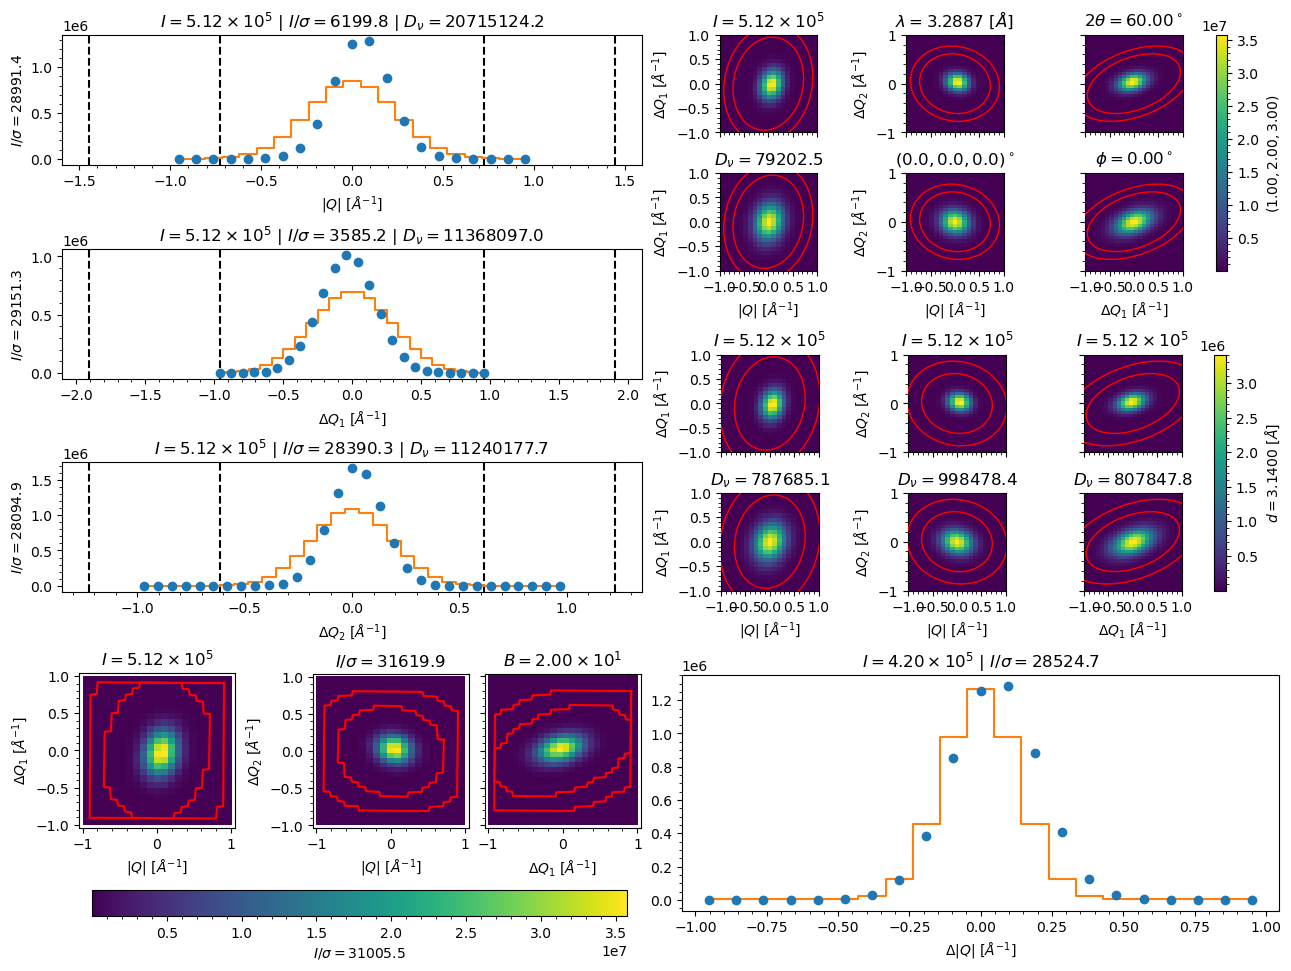
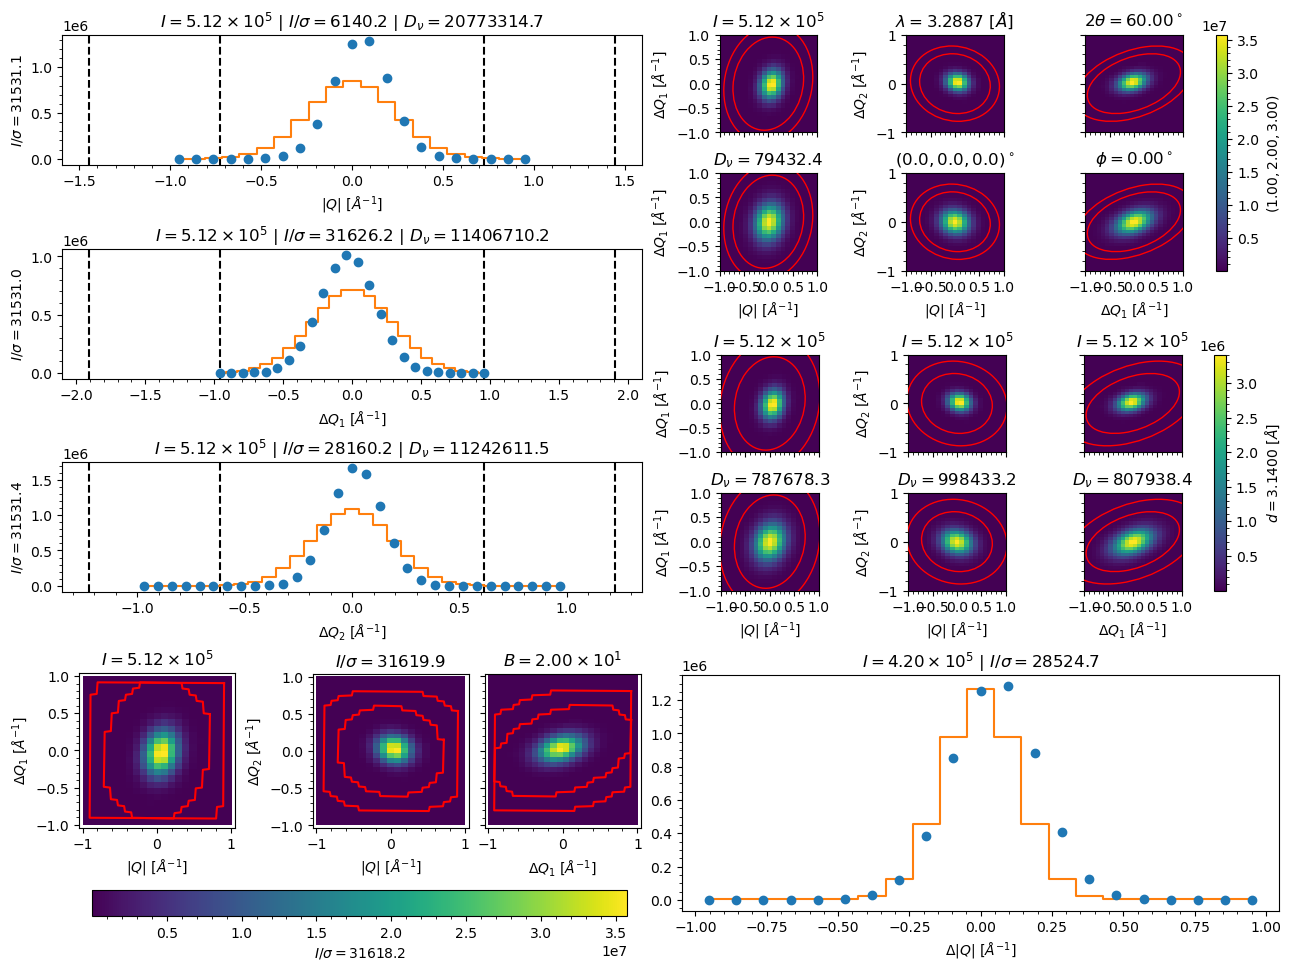
Prior updates

diff --git a/src/garnet/reduction/ellipsoid.py b/src/garnet/reduction/ellipsoid.py
@@ -429,7 +429,11 @@ class PeakEllipsoid:
         chi-squared scale factor applied at this stage). Since `S` is
         generally not diagonal in the lab frame, 1D/2D sub-block
         determinants (and hence this quantity) do depend on orientation,
-        unlike the full 3x3 determinant.
+        unlike the full 3x3 determinant. For ``mode="3d"``, `S` is
+        diagonal with entries ``r0^2, r1^2, r2^2`` in its own (rotated)
+        local frame, and the determinant is rotation-invariant, so
+        ``det(S) = (r0*r1*r2)**2`` is computed directly without building
+        `U` or the full matrix product.
 
         `r0, r1, r2` (and therefore `S`) are calibrated to the full-3D
         99.7% confidence contour (`_R_SCALE_3D`, chi-squared with
@@ -468,26 +472,27 @@ class PeakEllipsoid:
             a single diagonal entry of `S`).
         """
 
-        S = self.S_matrix(r0, r1, r2, u0, u1, u2)
-
         if mode == "3d":
-            S_mode = S
-        elif mode == "2d_0":
-            S_mode = S[1:, 1:]
-        elif mode == "2d_1":
-            S_mode = S[0::2, 0::2]
-        elif mode == "2d_2":
-            S_mode = S[:2, :2]
-        elif mode == "1d_0":
-            S_mode = S[0, 0]
-        elif mode == "1d_1":
-            S_mode = S[1, 1]
-        elif mode == "1d_2":
-            S_mode = S[2, 2]
+            det_S = (r0 * r1 * r2) ** 2
         else:
-            raise ValueError("Unknown mode {}".format(mode))
+            S = self.S_matrix(r0, r1, r2, u0, u1, u2)
 
-        det_S = np.linalg.det(S_mode) if np.ndim(S_mode) == 2 else S_mode
+            if mode == "2d_0":
+                S_mode = S[1:, 1:]
+            elif mode == "2d_1":
+                S_mode = S[0::2, 0::2]
+            elif mode == "2d_2":
+                S_mode = S[:2, :2]
+            elif mode == "1d_0":
+                S_mode = S[0, 0]
+            elif mode == "1d_1":
+                S_mode = S[1, 1]
+            elif mode == "1d_2":
+                S_mode = S[2, 2]
+            else:
+                raise ValueError("Unknown mode {}".format(mode))
+
+            det_S = np.linalg.det(S_mode) if np.ndim(S_mode) == 2 else S_mode
 
         d = _MODE_NDIM[mode]
         rescale = (_MODE_R_SCALE[mode] / _R_SCALE_3D) ** (2 * d)
@@ -710,6 +715,11 @@ class PeakEllipsoid:
         """
         Determinant of the ellipsoid covariance-like matrix S.
 
+        `S` is diagonal with entries ``r0^2, r1^2, r2^2`` in its own
+        (rotated) local frame, and the determinant is rotation-invariant,
+        so this is computed directly from the radii without building `U`
+        or the full matrix product.
+
         Parameters
         ----------
         r0 : float
@@ -719,19 +729,18 @@ class PeakEllipsoid:
         r2 : float
             Ellipsoid principal radius along the third rotated axis.
         u0 : float
-            First component of the orientation rotation vector.
+            Unused (`det(S)` does not depend on orientation).
         u1 : float
-            Second component of the orientation rotation vector.
+            Unused (`det(S)` does not depend on orientation).
         u2 : float
-            Third component of the orientation rotation vector.
+            Unused (`det(S)` does not depend on orientation).
 
         Returns
         -------
         det : float
             ``det(S)``, equal to ``(r0*r1*r2)**2``.
         """
-        S = self.S_matrix(r0, r1, r2, u0, u1, u2)
-        return np.linalg.det(S)
+        return (r0 * r1 * r2) ** 2
 
     def centroid_inverse_covariance(self, c0, c1, c2, r0, r1, r2, u0, u1, u2):
         """
@@ -2619,16 +2628,18 @@ class PeakEllipsoid:
 
     def residual(self, params, args_1d, args_2d, args_3d):
         """
-        Full stacked residual vector combining all modes, the prior, and the volume penalty.
+        Full stacked residual vector combining all modes and the prior.
 
         Computes the center and inverse covariance from `params`, then
         concatenates the 1D, 2D, and 3D Poisson-deviance residuals with
-        the prior residual (`prior_residual`) and the volume penalty
-        residual (`volume_penalty_residual`). Non-finite entries are
+        the prior residual (`prior_residual`). Non-finite entries are
         replaced with 0 or a large finite value so that
         `scipy.optimize.least_squares` sees a well-behaved cost vector.
         This is the residual function passed to `lmfit.Minimizer` in
         `sweep`.
+
+        Note: the volume penalty (`volume_penalty_residual`) is currently
+        disabled here — see the comment in the method body.
 
         Parameters
         ----------
@@ -2647,8 +2658,8 @@ class PeakEllipsoid:
         Returns
         -------
         cost : ndarray
-            Concatenated residual vector (1D + 2D + 3D + prior + volume
-            penalty terms), with NaN/inf sanitized.
+            Concatenated residual vector (1D + 2D + 3D + prior terms),
+            with NaN/inf sanitized.
         """
         c0 = params["c0"].value
         c1 = params["c1"].value
@@ -2670,16 +2681,12 @@ class PeakEllipsoid:
         cost_2d = self.residual_2d(params, *args_2d, c, inv_S)
         cost_3d = self.residual_3d(params, *args_3d, c, inv_S)
         cost_prior = self.prior_residual(params)
-        cost_vol = np.concatenate(
-            [
-                self.volume_penalty_residual(params, mode)
-                for mode in self._PENALTY_MODES
-            ]
-        )
+        # Volume penalty (volume_penalty_residual) is disabled: as written
+        # it rewards *larger* volumes, backwards from the intended
+        # anti-collapse regularizer. Paused pending a redesign that
+        # rewards smaller volumes with larger intensity above background.
 
-        cost = np.concatenate(
-            [cost_1d, cost_2d, cost_3d, cost_prior, cost_vol]
-        )
+        cost = np.concatenate([cost_1d, cost_2d, cost_3d, cost_prior])
         cost = np.nan_to_num(cost, nan=0.0, posinf=1e16, neginf=-1e16)
 
         return cost
@@ -2691,11 +2698,13 @@ class PeakEllipsoid:
         Computes the center, inverse covariance, and shape derivatives
         (`inv_S_deriv_r`, `inv_S_deriv_u`) from `params`, then
         column-stacks the 1D, 2D, and 3D Poisson-deviance Jacobians with
-        the prior Jacobian (`prior_jacobian`) and the volume penalty
-        Jacobian (`volume_penalty_jacobian`), and transposes to the
+        the prior Jacobian (`prior_jacobian`), and transposes to the
         ``(n_residuals, n_vary)`` convention expected by
         `scipy.optimize.least_squares`. This is the Jacobian function
         passed to `lmfit.Minimizer.minimize` in `sweep`.
+
+        Note: the volume penalty Jacobian (`volume_penalty_jacobian`) is
+        currently disabled here — see the comment in the method body.
 
         Parameters
         ----------
@@ -2740,14 +2749,10 @@ class PeakEllipsoid:
         jac_2d = self.jacobian_2d(params, *args_2d, c, inv_S, dr, du)
         jac_3d = self.jacobian_3d(params, *args_3d, c, inv_S, dr, du)
         jac_prior = self.prior_jacobian(params)
-        jac_vol = np.column_stack(
-            [
-                self.volume_penalty_jacobian(params, mode)
-                for mode in self._PENALTY_MODES
-            ]
-        )
+        # Volume penalty (volume_penalty_jacobian) is disabled: see the
+        # matching comment in residual().
 
-        jac = np.column_stack([jac_1d, jac_2d, jac_3d, jac_prior, jac_vol])
+        jac = np.column_stack([jac_1d, jac_2d, jac_3d, jac_prior])
         jac = np.nan_to_num(jac, nan=0.0, posinf=1e16, neginf=-1e16)
 
         return jac.T
@@ -3699,10 +3704,10 @@ class PeakEllipsoid:
 
         x = snr if snr > 1 else 1
 
-        sigma_c = self.smooth_saturating(x, 1.0, 100, 20)
-        sigma_log_s = self.smooth_saturating(x, 0.1, 10, 15)
-        sigma_log_d = self.smooth_saturating(x, 0.1, 10, 10)
-        sigma_rot = self.smooth_saturating(x, 0.1, 10, 10)
+        sigma_c = self.smooth_saturating(x, 5.0, 100, 20)
+        sigma_log_s = self.smooth_saturating(x, 1.0, 50, 15)
+        sigma_log_d = self.smooth_saturating(x, 0.05, 2.0, 10)
+        sigma_rot = self.smooth_saturating(x, 0.05, 2.0, 10)
 
         return sigma_c, sigma_log_s, sigma_log_d, sigma_rot
 
@@ -3864,15 +3869,17 @@ class PeakEllipsoid:
         report_fit=False,
     ):
         """
-        Run one `lmfit`/`scipy.optimize.least_squares` minimization pass, accepted only if SNR improves.
+        Run one `lmfit`/Levenberg-Marquardt minimization pass, accepted only if SNR improves.
 
         Optionally sets which parameters vary via `protocol`, then
-        minimizes `self.residual`/`self.jacobian` with
-        `lmfit.Minimizer` using the ``"least_squares"`` method. The
-        resulting fit is accepted (written back to `self.params`) only if
-        the post-fit 3D I/sigma (`_isig_3d` at ``scales=[1]``) is not
-        worse than before the fit; otherwise `self.params` is left
-        unchanged.
+        minimizes `self.residual`/`self.jacobian` with `lmfit.Minimizer`
+        using the ``"leastsq"`` method (MINPACK's Levenberg-Marquardt,
+        via `scipy.optimize.leastsq`; bounds are handled by `lmfit`'s own
+        internal parameter transform, since MINPACK's `leastsq` has no
+        native bounds support). The resulting fit is accepted (written
+        back to `self.params`) only if the post-fit 3D I/sigma (`_isig_3d`
+        at ``scales=[1]``) is not worse than before the fit; otherwise
+        `self.params` is left unchanged.
 
         Parameters
         ----------
@@ -3917,8 +3924,9 @@ class PeakEllipsoid:
         isig_before = self._isig_3d(self.params, args_3d, scales=[1])
 
         result = out.minimize(
-            method="least_squares",
-            jac=self.jacobian,
+            method="leastsq",
+            Dfun=self.jacobian,
+            col_deriv=0,
             max_nfev=n_iter,
         )
 